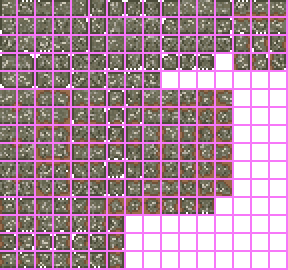
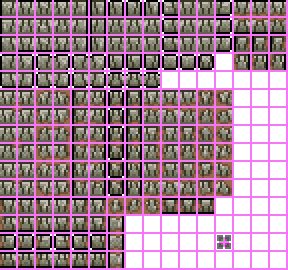
Add Twilight Plume and fix other things

diff --git a/AvalonTestingWorld.cs b/AvalonTestingWorld.cs
@@ -1322,11 +1322,8 @@ public class AvalonTestingWorld : ModSystem
                 //}
                 if (!Main.tile[num5, num9].HasTile && Main.tile[num5, num9].LiquidAmount == 0 &&
                     !Main.tile[num5, num6].IsHalfBlock && Main.tile[num5, num6].Slope == SlopeType.Solid &&
-                    WorldGen.genRand.NextBool(5) && num14 == ModContent.TileType<Ickgrass>() && Main.tile[num5, num9].TileType != TileID.Dirt &&
-                    !Main.tile[num5, num6].HasTile)
+                    WorldGen.genRand.NextBool(5) && num14 == ModContent.TileType<Ickgrass>())
                 {
-                    Main.NewText(Main.tile[num5, num6].TileType, Color.GreenYellow);
-                    Main.NewText(Main.tile[num5, num9].TileType, Color.CornflowerBlue);
                     WorldGen.PlaceTile(num5, num9, ModContent.TileType<ContagionShortGrass>(), true);
                     Main.tile[num5, num9].TileFrameX = (short)(WorldGen.genRand.Next(0, 11) * 18);
                     if (Main.tile[num5, num9].HasTile)
@@ -1334,6 +1331,7 @@ public class AvalonTestingWorld : ModSystem
                         Tile t = Main.tile[num5, num9];
                         t.TileColor = Main.tile[num5, num6].TileColor;
                     }
+
                     if (Main.netMode == NetmodeID.Server && Main.tile[num5, num9].HasTile)
                     {
                         NetMessage.SendTileSquare(-1, num5, num9, 1);
@@ -1485,6 +1483,40 @@ public class AvalonTestingWorld : ModSystem
             if (Main.tile[num5, num6].TileType == ModContent.TileType<TropicalGrass>())
             {
                 int num14 = Main.tile[num5, num6].TileType;
+
+                if (!Main.tile[num5, num9].HasTile && Main.tile[num5, num9].LiquidAmount == 0 &&
+                    !Main.tile[num5, num6].IsHalfBlock && Main.tile[num5, num6].Slope == SlopeType.Solid &&
+                    WorldGen.genRand.NextBool(5) && num14 == ModContent.TileType<TropicalGrass>())
+                {
+                    WorldGen.PlaceTile(num5, num9, ModContent.TileType<TropicalShortGrass>(), true);
+                    Main.tile[num5, num9].TileFrameX = (short)(WorldGen.genRand.Next(0, 8) * 18);
+                    if (Main.tile[num5, num9].HasTile)
+                    {
+                        Tile t = Main.tile[num5, num9];
+                        t.TileColor = Main.tile[num5, num6].TileColor;
+                    }
+
+                    if (Main.netMode == NetmodeID.Server && Main.tile[num5, num9].HasTile)
+                    {
+                        NetMessage.SendTileSquare(-1, num5, num9, 1);
+                    }
+                }
+                // twilight plume
+                if (!Main.tile[num5, num9].HasTile && Main.tile[num5, num9].LiquidAmount == 0 &&
+                    !Main.tile[num5, num6].IsHalfBlock && Main.tile[num5, num6].Slope == SlopeType.Solid &&
+                    WorldGen.genRand.NextBool(num6 > Main.worldSurface ? 500 : 200) && num14 == ModContent.TileType<TropicalGrass>())
+                {
+                    WorldGen.PlaceTile(num5, num9, ModContent.TileType<Tiles.Herbs.TwilightPlume>(), true, false, -1, 0);
+                    if (Main.tile[num5, num9].HasTile)
+                    {
+                        Tile t = Main.tile[num5, num9];
+                        t.TileColor = Main.tile[num5, num6].TileColor;
+                    }
+                    if (Main.netMode == NetmodeID.Server && Main.tile[num5, num9].HasTile)
+                    {
+                        NetMessage.SendTileSquare(-1, num5, num9, 1);
+                    }
+                }
                 bool flag2 = false;
                 for (int m = num7; m < num8; m++)
                 {

diff --git a/Tiles/Herbs/TwilightPlume.cs b/Tiles/Herbs/TwilightPlume.cs
@@ -1,0 +1,91 @@
+using AvalonTesting.Items.Placeable.Seed;
+using Microsoft.Xna.Framework;
+using Microsoft.Xna.Framework.Graphics;
+using Terraria;
+using Terraria.ID;
+using Terraria.Localization;
+using Terraria.ModLoader;
+using Terraria.ObjectData;
+
+namespace AvalonTesting.Tiles.Herbs;
+
+//A plant with 3 stages, planted, growing and grown.
+//Sadly, modded plants are unable to be grown by the flower boots
+public class TwilightPlume : ModTile
+{
+    private const int FrameWidth = 18; //a field for readibilty and to kick out those magic numbers
+
+    public override void SetStaticDefaults()
+    {
+        Main.tileFrameImportant[Type] = true;
+        Main.tileCut[Type] = true;
+        Main.tileNoFail[Type] = true;
+        Main.tileSpelunker[Type] = true;
+        AddMapEntry(new Color(216, 161, 50), LanguageManager.Instance.GetText("Twilight Plume"));
+        HitSound = SoundID.Grass;
+        TileObjectData.newTile.CopyFrom(TileObjectData.StyleAlch);
+        TileObjectData.newTile.AnchorValidTiles = new int[]
+        {
+            ModContent.TileType<Nest>(),
+            TileID.Hive
+        };
+
+        TileObjectData.newTile.AnchorAlternateTiles = new int[]
+        {
+            TileID.ClayPot,
+            TileID.PlanterBox
+        };
+
+        TileObjectData.addTile(Type);
+    }
+    public override bool CanPlace(int i, int j)
+    {
+        return (Main.tile[i, j + 1].TileType == TileID.ClayPot || Main.tile[i, j + 1].TileType == TileID.PlanterBox) &&
+               (!Main.tile[i, j].HasTile || Main.tile[i, j].TileType == TileID.Plants);
+    }
+    public override void SetSpriteEffects(int i, int j, ref SpriteEffects spriteEffects)
+    {
+        if (i % 2 == 1)
+            spriteEffects = SpriteEffects.FlipHorizontally;
+    }
+
+    public override bool Drop(int i, int j)
+    {
+        PlantStage stage = GetStage(i, j); //The current stage of the herb
+
+        //Only drop items if the herb is grown
+        if (stage == PlantStage.Grown)
+        {
+            Item.NewItem(WorldGen.GetItemSource_FromTileBreak(i, j),new Vector2(i, j).ToWorldCoordinates(), ModContent.ItemType<TwilightPlumeSeeds>(), Main.rand.Next(3) + 1);
+            Item.NewItem(WorldGen.GetItemSource_FromTileBreak(i, j),new Vector2(i, j).ToWorldCoordinates(), ModContent.ItemType<Items.Material.TwilightPlume>(), 1);
+        }
+        if (stage == PlantStage.Growing)
+            Item.NewItem(WorldGen.GetItemSource_FromTileBreak(i, j),new Vector2(i, j).ToWorldCoordinates(), ModContent.ItemType<Items.Material.TwilightPlume>(), 1);
+
+        return false;
+    }
+
+    public override void RandomUpdate(int i, int j)
+    {
+        Tile tile = Framing.GetTileSafely(i, j); //Safe way of getting a tile instance
+        PlantStage stage = GetStage(i, j); //The current stage of the herb
+
+        //Only grow to the next stage if there is a next stage. We dont want our tile turning pink!
+        if (stage != PlantStage.Grown && Main.rand.Next(13) == 0)
+        {
+            //Increase the x frame to change the stage
+            tile.TileFrameX += FrameWidth;
+
+            //If in multiplayer, sync the frame change
+            if (Main.netMode != NetmodeID.SinglePlayer)
+                NetMessage.SendTileSquare(-1, i, j, 1);
+        }
+    }
+
+    //A method to quickly get the current stage of the herb
+    private PlantStage GetStage(int i, int j)
+    {
+        Tile tile = Framing.GetTileSafely(i, j); //Always use Framing.GetTileSafely instead of Main.tile as it prevents any errors caused from other mods
+        return (PlantStage)(tile.TileFrameX / FrameWidth);
+    }
+}

diff --git a/Items/Tools/TombMirror.cs b/Items/Tools/TombMirror.cs
@@ -1,88 +1,50 @@
-using Terraria;
+using Terraria;
 using Terraria.ID;
 using Terraria.ModLoader;
-using Terraria.GameContent.Creative;
 using Microsoft.Xna.Framework;
-using Microsoft.Xna.Framework.Graphics;
-using Terraria.GameContent;
 
-namespace AvalonTesting.Items.Tools
+namespace AvalonTesting.Items.Tools;
+
+public class TombMirror : ModItem
 {
-	
-	public class TombMirror : ModItem
-	{
-		//TODO Add a recipe and improve visuals if you desire
-
-		public override void SetStaticDefaults() {
-			DisplayName.SetDefault("Tomb Mirror");
-			Tooltip.SetDefault("Use tor return to where you last died \n'Gazing into the mirror you see yourself in a past life'");
-			CreativeItemSacrificesCatalog.Instance.SacrificeCountNeededByItemId[Type] = 1;
-		}
-
-		public override void SetDefaults() {
-			Item.maxStack = 1;
-			Item.consumable = true;
-			Item.width = 20;
-			Item.height = 22;
-			Item.rare = ItemRarityID.LightRed;
-			Item.useStyle = ItemHoldStyleID.HoldUp;
-			Item.useTime = 32;
-			Item.useAnimation = 32;
-			Item.consumable = false;
-			Item.UseSound = SoundID.Item6;
-			Item.autoReuse = false;
-		}
-
-		public override bool? UseItem(Player player)
-        {
-
-
-
-			if (player.GetModPlayer<SaveDeathpoint>().DeathX == 0 && player.GetModPlayer<SaveDeathpoint>().DeathY == 0)
-            {
-				return false;
-
-			}
-            else 
-			{
-				
-				player.Center = new Vector2(player.GetModPlayer<SaveDeathpoint>().DeathX, player.GetModPlayer<SaveDeathpoint>().DeathY);
-
-				for (int i = 0; i < 15; i++)
-				{
-					int dustIndex = Dust.NewDust(player.position, player.width, player.height, 6);
-				}
-				return true;
-			}
-        }
-
-
+    public override void SetStaticDefaults()
+    {
+        DisplayName.SetDefault("Tomb Mirror");
+        Tooltip.SetDefault("Use to return to where you last died\n'Gazing into the mirror, you see yourself in a past life'");
+        SacrificeTotal = 1;
     }
 
-	public class SaveDeathpoint : ModPlayer
-	{
-
-		public float DeathX;
-		public float DeathY;
-		public int Clock;
-
-        public override void UpdateDead()
-        {
-			if (Clock == 0)
-            {
-				DeathX = Player.Center.X;
-				DeathY = Player.Center.Y;
-				Clock = 1;
-			}
-		}
-
-        public override void OnRespawn(Player player)
-        {
-			Clock = 0;
-		}
-
+    public override void SetDefaults()
+    {
+        Item.maxStack = 1;
+        Item.consumable = true;
+        Item.width = 20;
+        Item.height = 22;
+        Item.rare = ItemRarityID.LightRed;
+        Item.useStyle = ItemHoldStyleID.HoldUp;
+        Item.useTime = 32;
+        Item.useAnimation = 32;
+        Item.consumable = false;
+        Item.UseSound = SoundID.Item6;
+        Item.autoReuse = false;
     }
-
-
-
+    public override bool CanUseItem(Player player)
+    {
+        return player.showLastDeath;
+    }
+    public override bool? UseItem(Player player)
+    {
+        Vector2 newPos = new Vector2(player.lastDeathPostion.X - 16f, player.lastDeathPostion.Y - 24f);
+        player.Teleport(newPos);
+        return true;
+    }
+    public override void AddRecipes()
+    {
+        Recipe.Create(Type)
+            .AddIngredient(ItemID.RecallPotion, 3)
+            .AddRecipeGroup("AvalonTesting:Tombstones", 10)
+            .AddRecipeGroup("AvalonTesting:Herbs", 5)
+            .AddTile(TileID.Furnaces)
+            .Register();
+    }
 }

diff --git a/Items/Placeable/Seed/TwilightPlumeSeeds.cs b/Items/Placeable/Seed/TwilightPlumeSeeds.cs
@@ -1,0 +1,34 @@
+using Microsoft.Xna.Framework;
+using Terraria.ID;
+using Terraria.ModLoader;
+
+namespace AvalonTesting.Items.Placeable.Seed;
+
+class TwilightPlumeSeeds : ModItem
+{
+    public override void SetStaticDefaults()
+    {
+        DisplayName.SetDefault("Twilight Plume Seeds");
+        SacrificeTotal = 25;
+    }
+
+    public override void SetDefaults()
+    {
+        Rectangle dims = this.GetDims();
+        Item.consumable = true;
+        Item.createTile = ModContent.TileType<Tiles.Herbs.TwilightPlume>();
+        Item.placeStyle = 0;
+        Item.width = dims.Width;
+        Item.useTurn = true;
+        Item.useTime = 10;
+        Item.useStyle = ItemUseStyleID.Swing;
+        Item.maxStack = 999;
+        Item.value = 90;
+        Item.useAnimation = 15;
+        Item.height = dims.Height;
+    }
+    //public override void AddRecipes()
+    //{
+    //    CreateRecipe(2).AddIngredient(ItemID.PearlstoneBlock, 5).AddIngredient(ItemID.PixieDust, 2).AddIngredient(ItemID.Seed, 8).AddTile(ModContent.TileType<Tiles.SeedFabricator>()).Register();
+    //}
+}

diff --git a/Systems/RecipeSystem.cs b/Systems/RecipeSystem.cs
@@ -36,6 +36,20 @@ public class RecipeSystem : ModSystem
         });
         RecipeGroup.RegisterGroup("AvalonTesting:GemStaves", groupGemStaves);
 
+        var groupTombstones = new RecipeGroup(() => "Any Tombstone", new int[]
+        {
+            ItemID.Gravestone,
+            ItemID.Tombstone,
+            ItemID.CrossGraveMarker,
+            ItemID.Obelisk,
+            ItemID.Headstone,
+            ItemID.RichGravestone1,
+            ItemID.RichGravestone2,
+            ItemID.RichGravestone3,
+            ItemID.RichGravestone4,
+            ItemID.RichGravestone5
+        });
+        RecipeGroup.RegisterGroup("AvalonTesting:Tombstones", groupTombstones);
 
         var groupWings = new RecipeGroup(() => "Any Wings", new int[]
         {

diff --git a/Effects/DarkMatterSky.cs b/Effects/DarkMatterSky.cs
@@ -52,7 +52,7 @@ public class DarkMatterSky : CustomSky
         int yCenter = Main.ScreenSize.Y / 2;
         int modifier = (Main.screenWidth - Main.screenHeight) / 2;
         if (modifier < 0) modifier = (Main.screenHeight - Main.screenWidth) / 2;
-        var percentage = new Vector2(1920 / Main.ScreenSize.X, 1080 / Main.ScreenSize.Y); // FIX FOR 4k LATER
+        var percentage = new Vector2(1920 / Main.ScreenSize.X, 1080 / Main.ScreenSize.Y); // FIX FOR 4k LATER 3840x2160
         int xModifier = (int)(modifier * percentage.X);
         int xPos2 = (xCenter - (AvalonTesting.DarkMatterBlackHole.Value.Width / 100) + xModifier) / 2;
         int yPos2 = (yCenter - (AvalonTesting.DarkMatterBlackHole.Value.Height / 100)) / 2;

diff --git a/Items/Material/TwilightPlume.cs b/Items/Material/TwilightPlume.cs
@@ -1,0 +1,22 @@
+using Microsoft.Xna.Framework;
+using Terraria.ModLoader;
+
+namespace AvalonTesting.Items.Material;
+
+class TwilightPlume : ModItem
+{
+    public override void SetStaticDefaults()
+    {
+        DisplayName.SetDefault("Twilight Plume");
+        SacrificeTotal = 25;
+    }
+
+    public override void SetDefaults()
+    {
+        Rectangle dims = this.GetDims();
+        Item.width = dims.Width;
+        Item.maxStack = 999;
+        Item.value = 100;
+        Item.height = dims.Height;
+    }
+}
